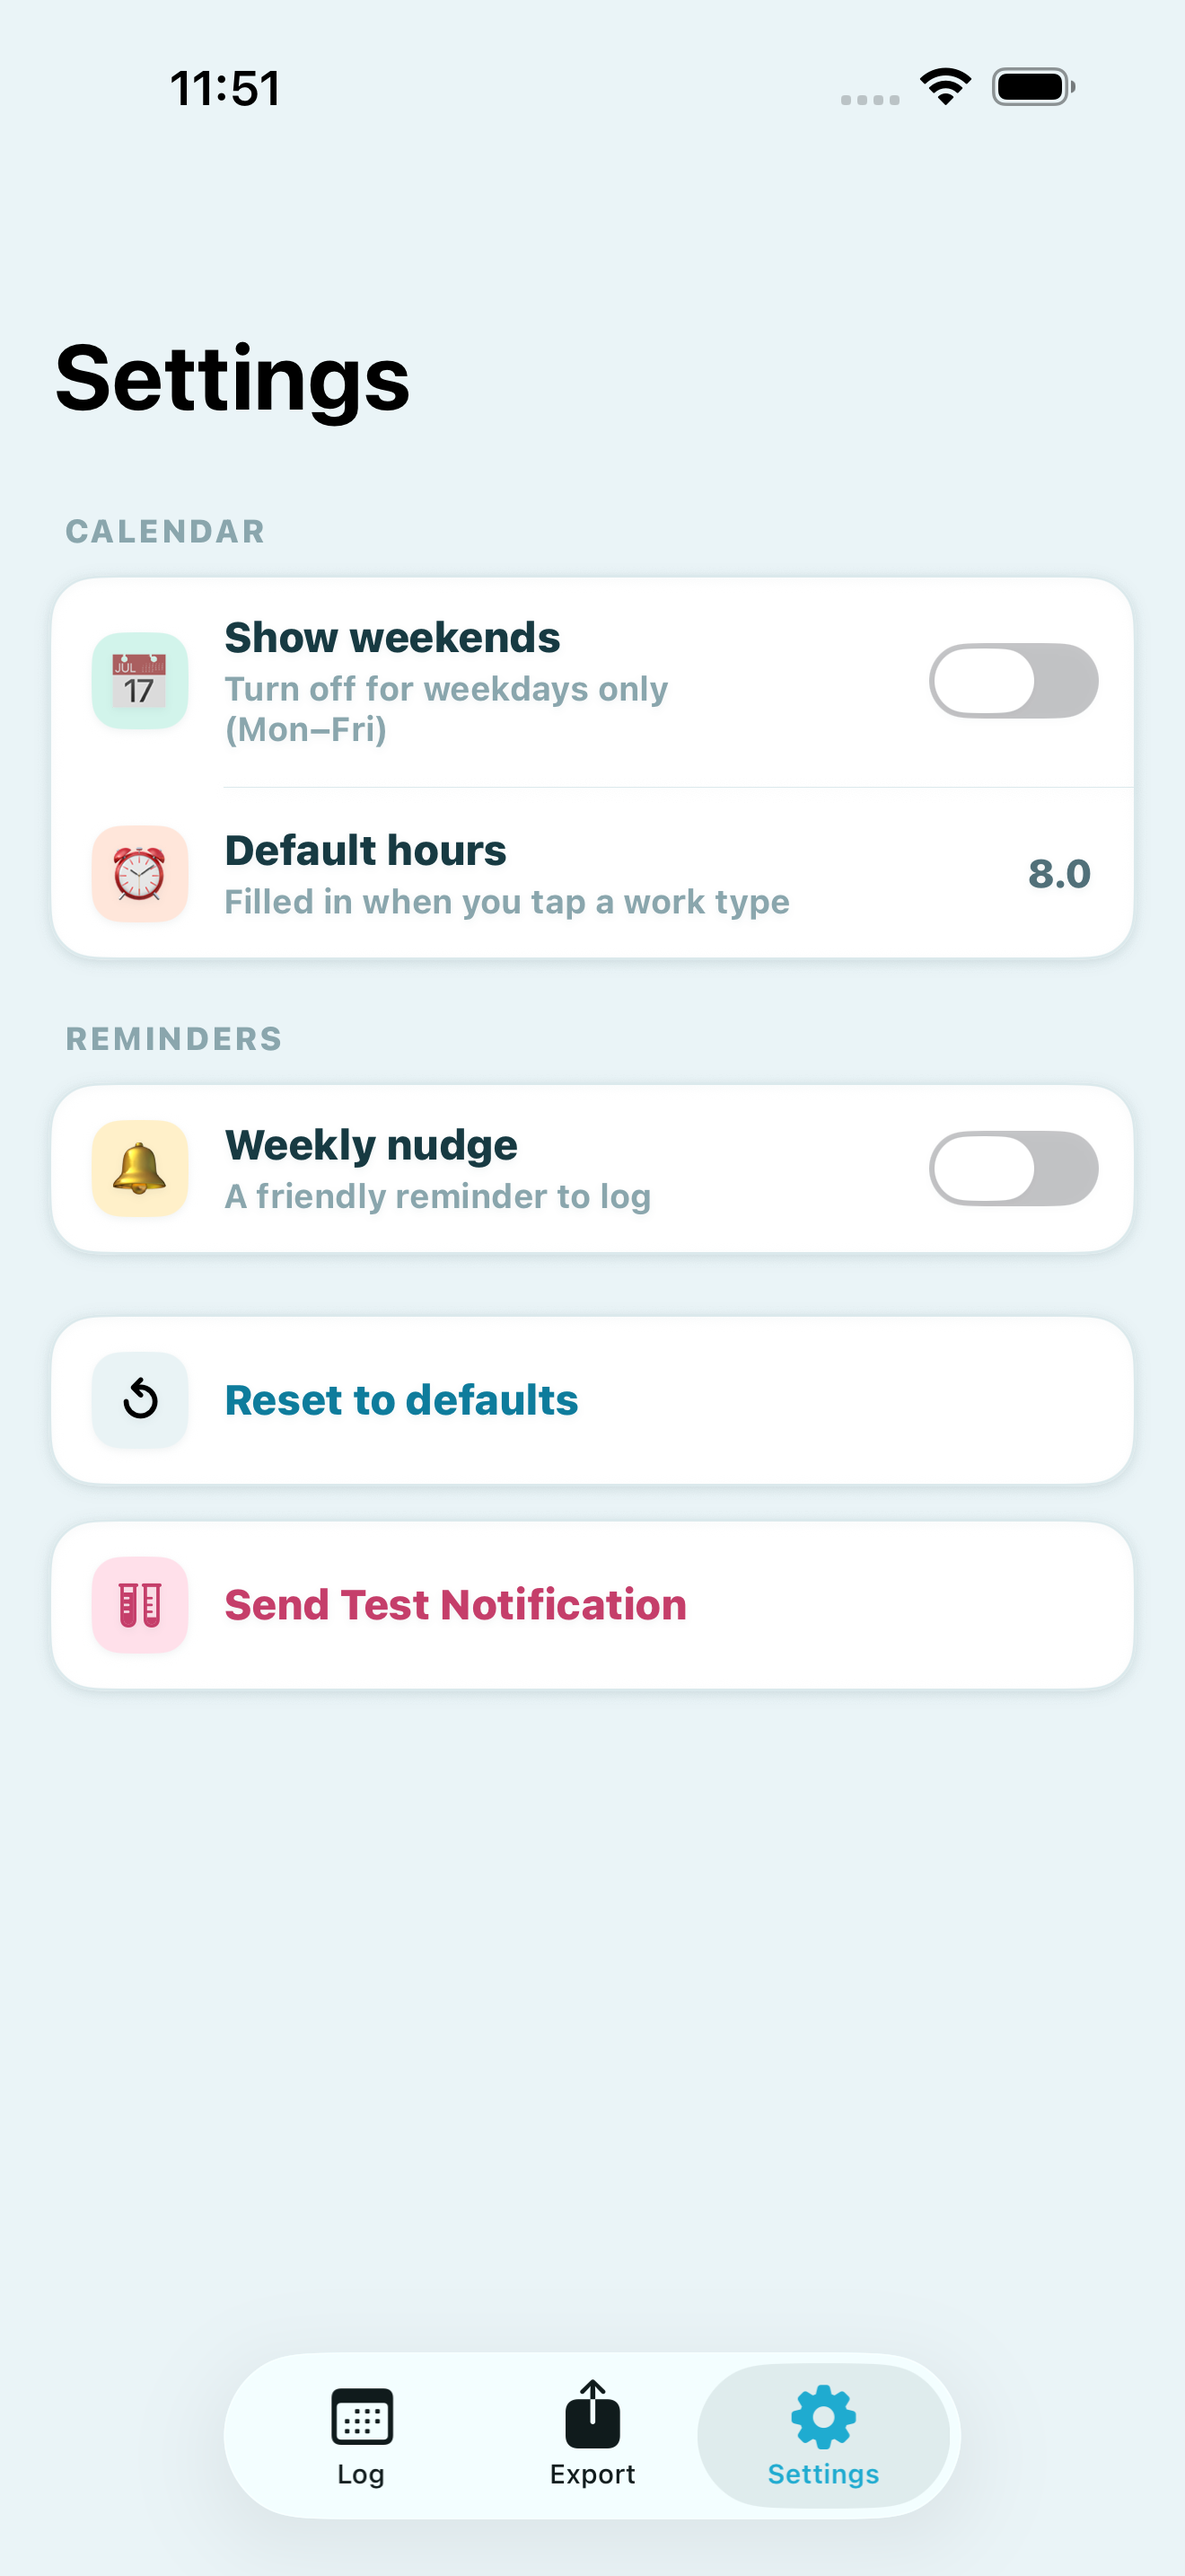
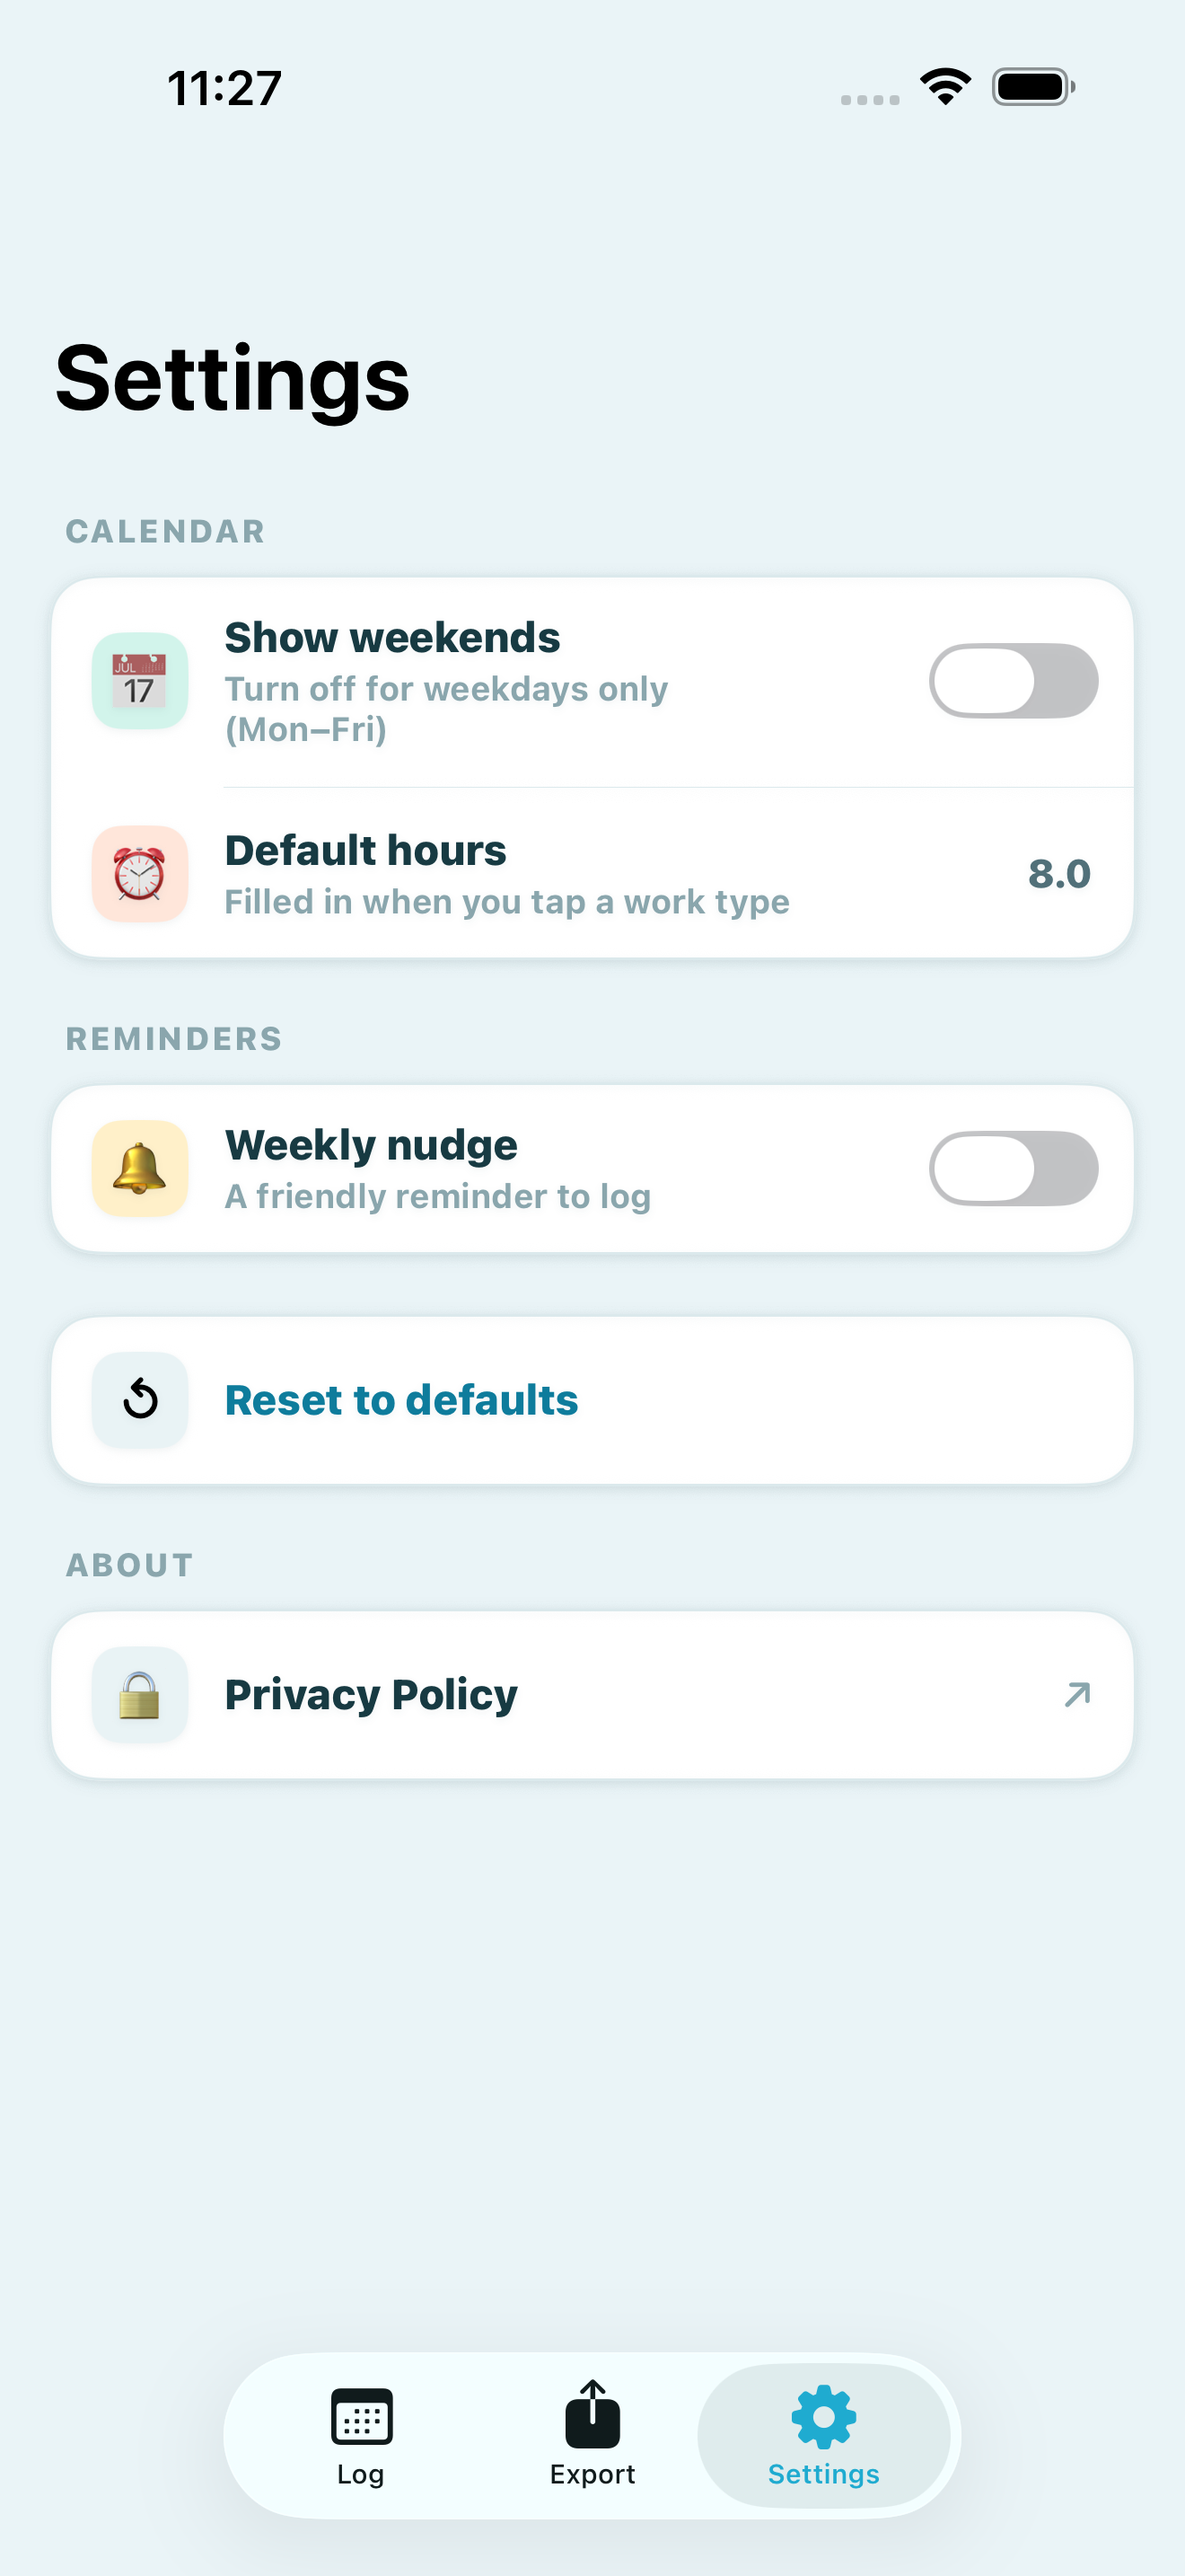
Added privacy policy link to Settings page

Changed region(s): [[0.0311, 0.5896, 0.9629, 0.6827], [0.1864, 0.031, 0.2174, 0.0621]]

diff --git a/WFH-Tracker/Views/SettingsView.swift b/WFH-Tracker/Views/SettingsView.swift
@@ -166,6 +166,32 @@ struct SettingsView: View {
                     }
                     .padding(.top, 22)
 
+                    // About section
+                    sectionHeader("About")
+
+                    listCard {
+                        Link(destination: URL(string: "https://thecruskit.com/wfh-tracker/privacy-policy")!) {
+                            HStack(spacing: 13) {
+                                Text("🔒")
+                                    .font(.system(size: 16))
+                                    .frame(width: 36, height: 36)
+                                    .background(
+                                        RoundedRectangle(cornerRadius: 11, style: .continuous)
+                                            .fill(Color.breezeSurfaceSunken)
+                                    )
+                                Text("Privacy Policy")
+                                    .font(.system(size: 15.5, weight: .heavy))
+                                    .foregroundStyle(Color.breezeInk)
+                                Spacer()
+                                Image(systemName: "arrow.up.right")
+                                    .font(.system(size: 12, weight: .bold))
+                                    .foregroundStyle(Color.breezeInkFaint)
+                            }
+                            .padding(.horizontal, 16)
+                            .padding(.vertical, 14)
+                        }
+                    }
+
                     Spacer(minLength: 32)
                 }
             }
